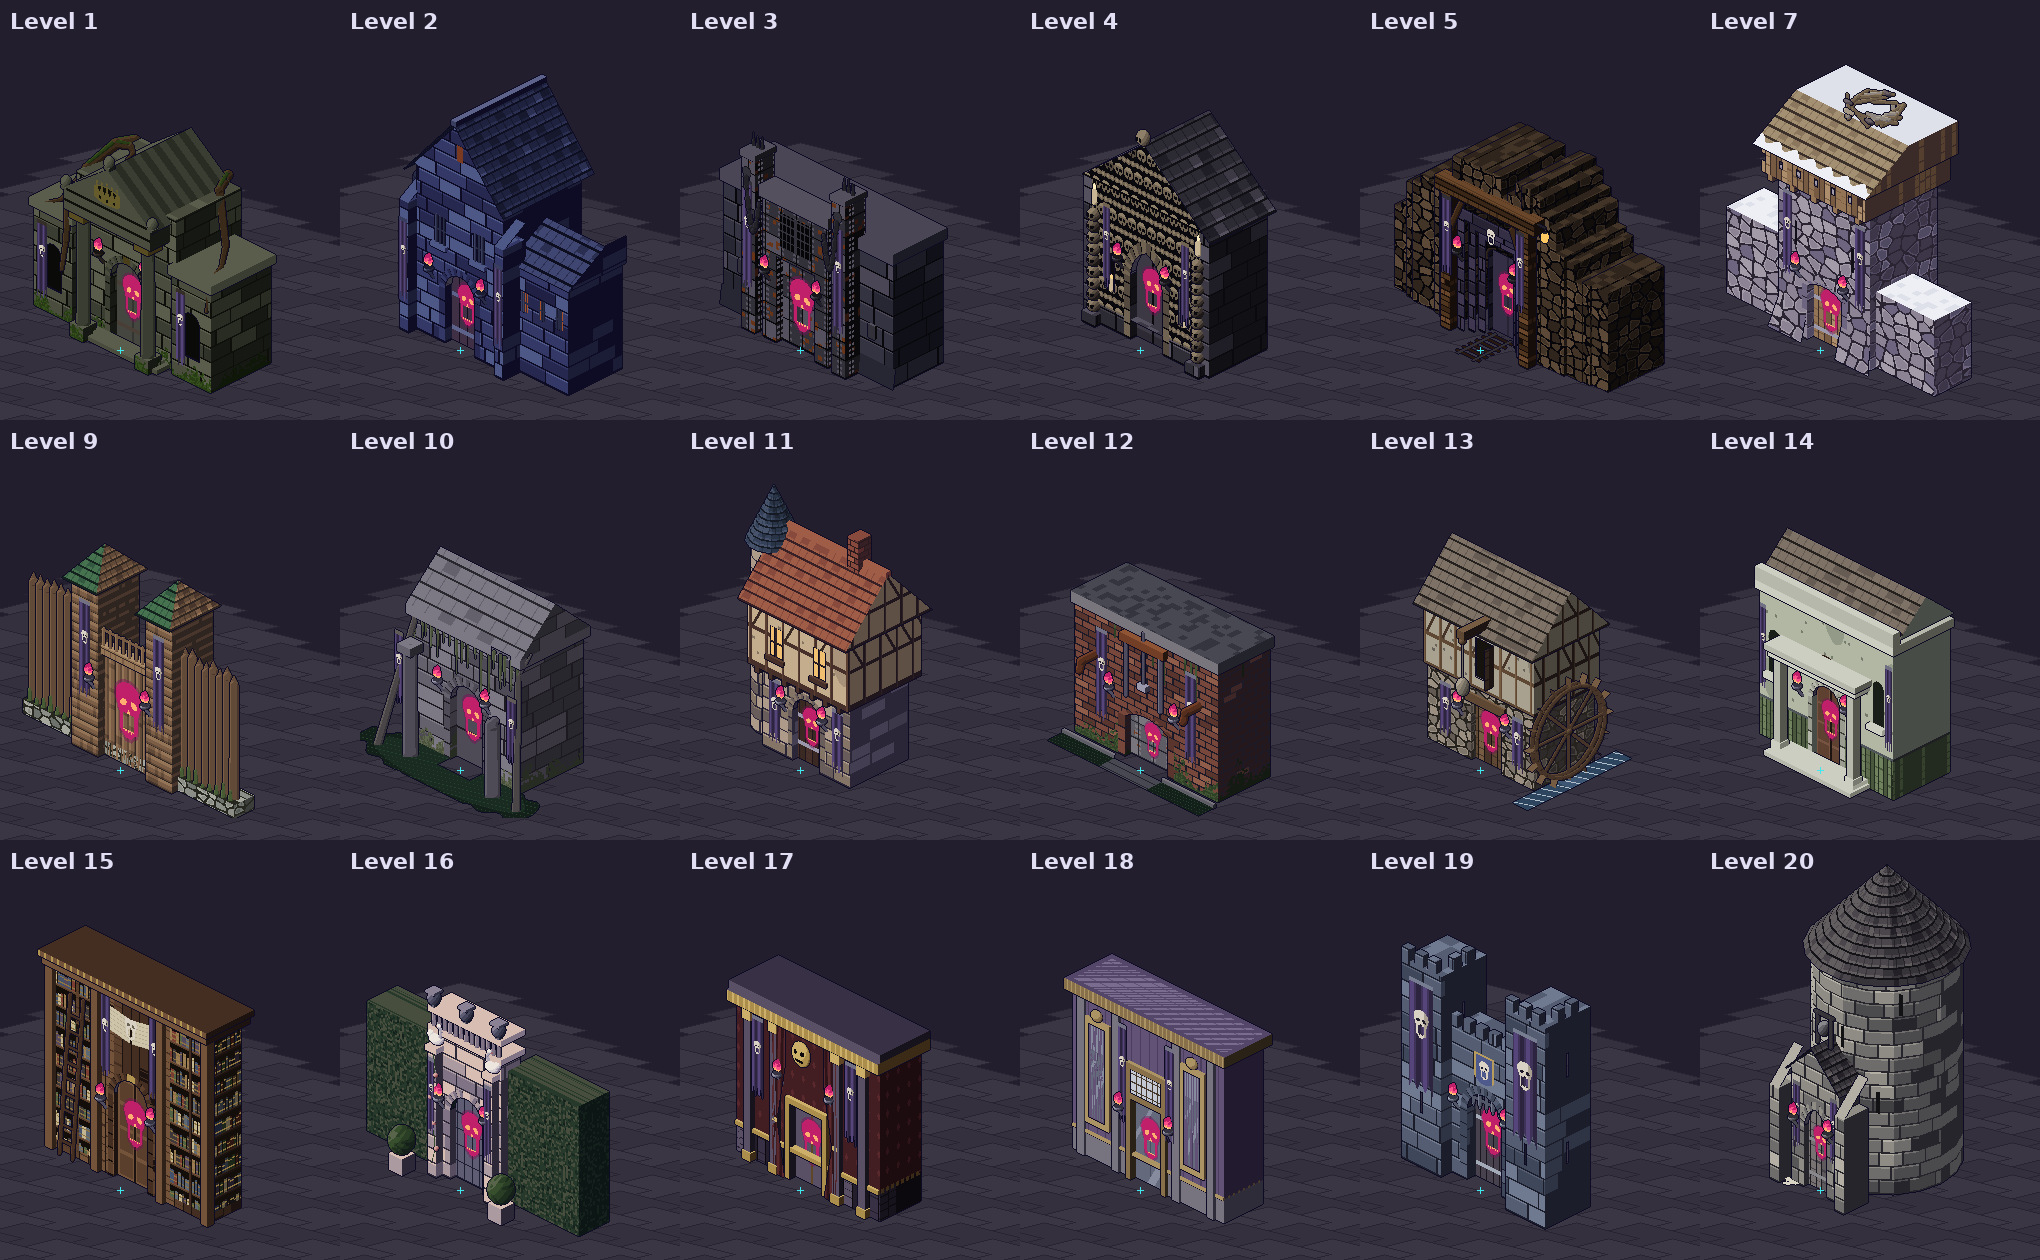
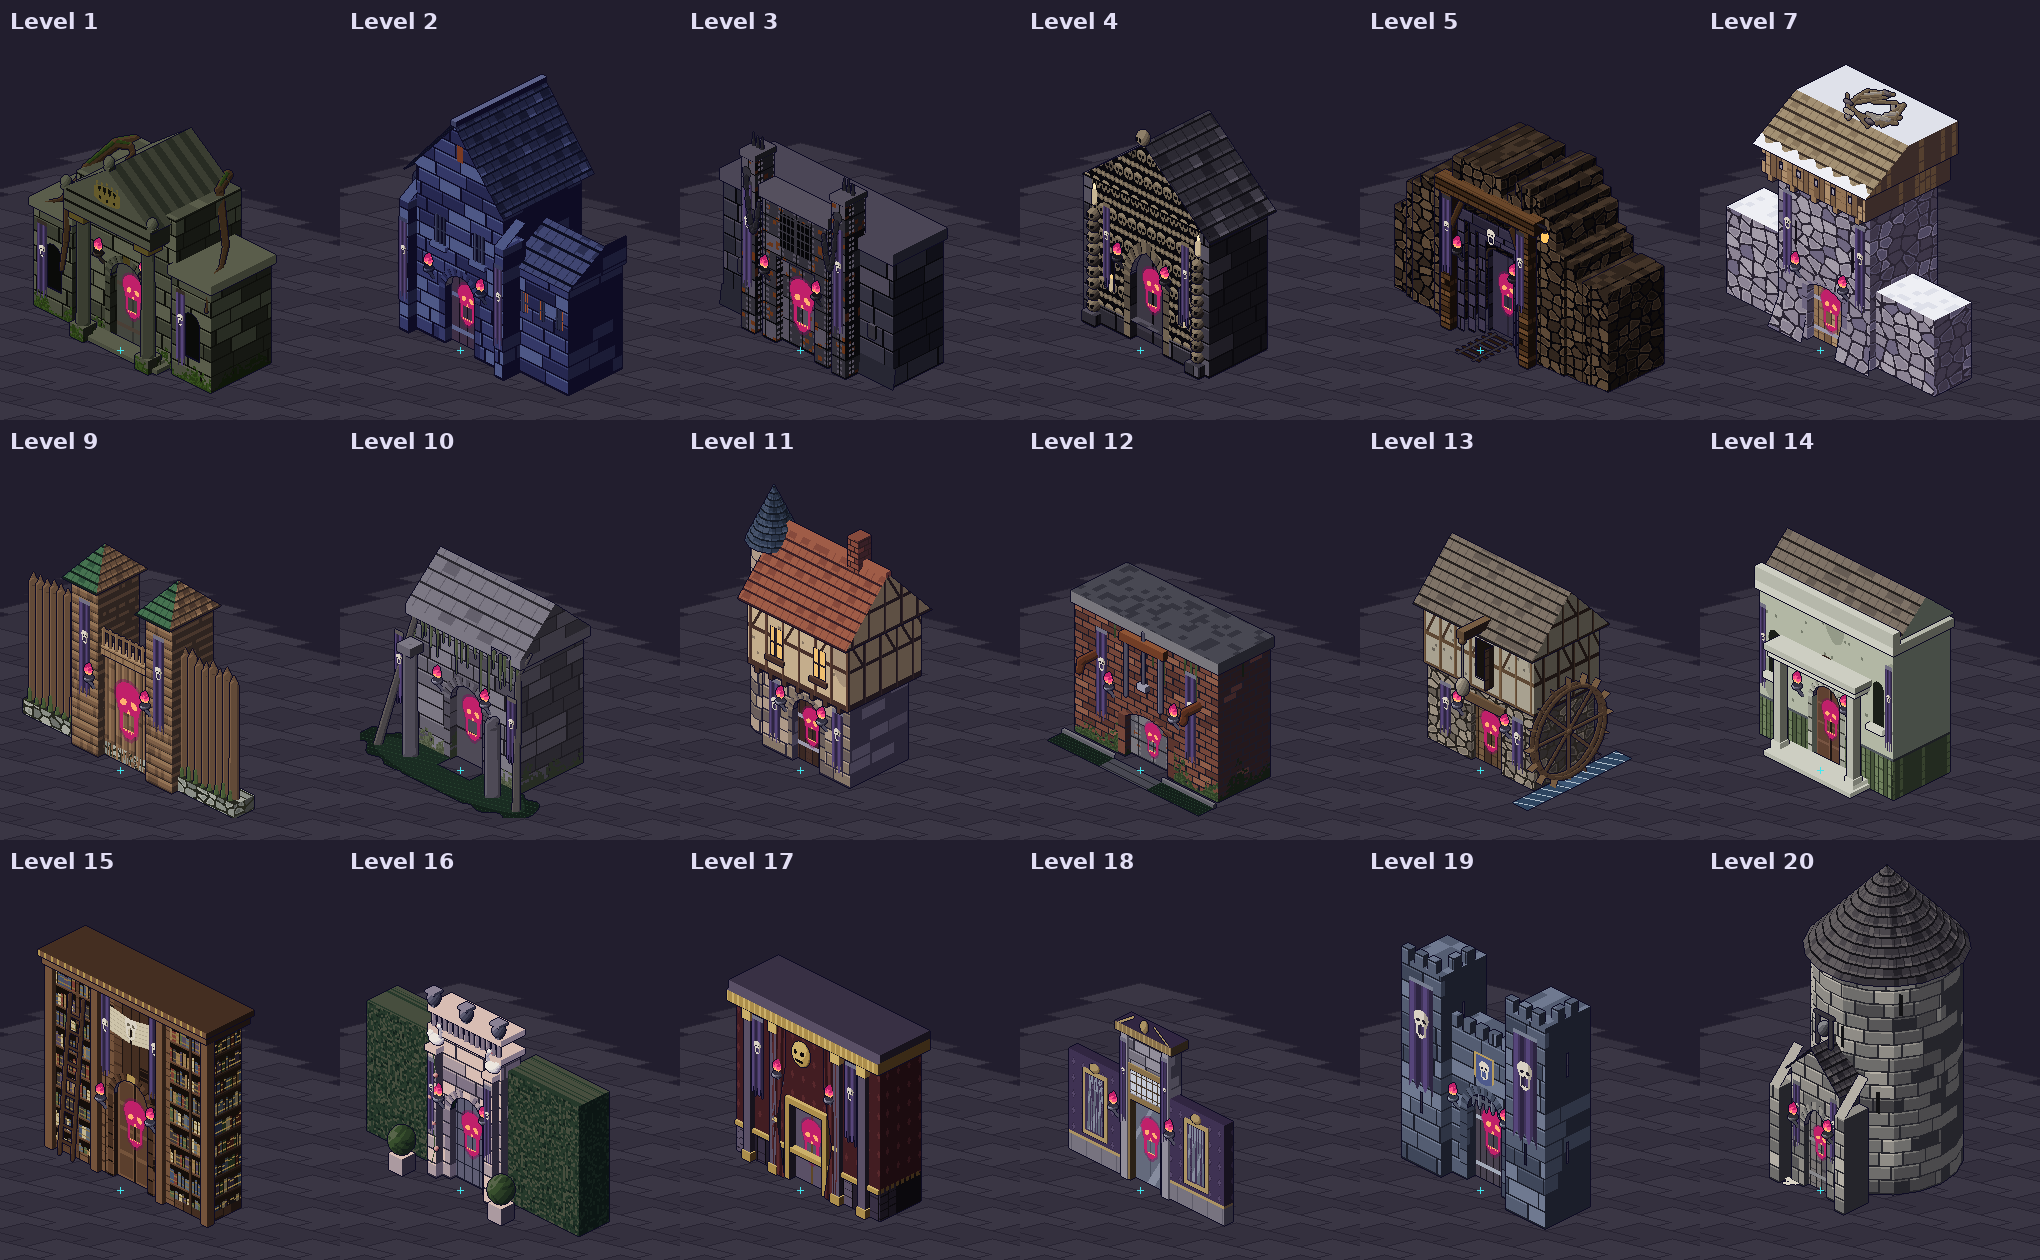
Level 18's stronghold front built as a run of the gallery's own wall, at his word
His word on the first pictures, 25 Nov 2026: “I like them except level 18 cause that is just in the
middle of the flooor”. The mirror door is now the gallery's wall either side at its own height (damask
over grey stone, a mirror on each) with the door's bay rising between, shallow, its top the wall's
dark cap; pictured against the gallery's back wall (the scenario's WALL and PICK).

Claude-Session: https://claude.ai/code/session_01JYSqoWBVKqU7pDHBLP4BaC

Changed region(s): [[0.525, 0.7429, 0.6176, 0.9595]]

diff --git a/src/art/hold_fronts.ts b/src/art/hold_fronts.ts
@@ -931,43 +931,57 @@ function stageFront(open: boolean, f: number): Sprite {
 // =================================================================================================
 // FLOOR 18, THE GLASS GALLERY: THE MIRROR HALL (art/floor18.ts)
 //
-// THE MIRROR DOOR taken by the cult: a wall of the gallery's violet silk between pilasters of grey stone, a great mirror in a gilt
-// frame either side, a glazed fanlight over the door, the door itself of mirror-glass in a gilt frame (the cult's mark burning in
-// it), a gilt cornice; the cult's banners, its pink fire.
-
+// THE MIRROR DOOR taken by the cult, BUILT AS A RUN OF THE GALLERY'S OWN WALL (his word on its first try, 25 Nov 2026, of the
+// pictures in the game: “I like them except level 18 cause that is just in the middle of the flooor”; read as, and told him so: it
+// stood out on the floor like a cabinet, where it should be part of the gallery's wall): the gallery's wall either side at the
+// gallery's own height, its violet damask over a skirting of grey stone and a gilt rail, a great mirror in gilt on each; between
+// them the door's bay rising higher, grey stone pilasters, a glazed fanlight, the door itself of mirror-glass in a gilt frame (the
+// cult's mark burning in it), a gilt cornice with a broken pediment; shallow, its top the wall's dark cap; the cult's banners on
+// the bay, its pink fire.
 
 function mirrorFront(open: boolean, f: number): Sprite {
   const F = new Front();
-  const silk: Paint = (w, n) => lit(n, GALLERY.SILK, fr(along(w, n) / 8) < 0.12 ? -1 : 0);
-  const stone = plain(GALLERY.CSTONE, 0, 0.05);
+  const damask: Paint = (w, n) => {
+    const a = along(w, n);
+    const u = fr(a / 9) - 0.5;
+    const v = fr(w[2] / 12) - 0.5;
+    const d = Math.abs(u) * 1.3 + Math.abs(v);
+    return lit(n, GALLERY.VIOLET, d < 0.2 ? 1 : d < 0.27 ? -1 : 0);
+  };
+  const wallOf: Paint = (w, n) => (w[2] < 12 ? lit(n, GALLERY.CSTONE, fr(along(w, n) / 14) < 0.07 ? -1 : 0) : w[2] < 14 ? lit(n, GALLERY.GILT, 1) : damask(w, n));
+  const cap: Paint = (_w, n) => lit(n, GALLERY.VIOLET, -2);
+  const stone = ashlar(GALLERY.CSTONE, GALLERY.CSTONE[0], 1801, 8, 14);
+  // THE GALLERY'S WALL either side, at its own height, its cap dark; a great mirror in gilt on each
+  for (const [x0, x1] of [[-72, -22], [22, 72]] as const) {
+    F.box(x0, -14, x1, -6, 0, 74, { front: wallOf, side: wallOf, top: cap });
+    const x = (x0 + x1) / 2;
+    F.box(x - 11, -7, x + 11, -5, 18, 66, plain(GALLERY.GILT, 1), (w, n) => n[1] > 0.5 && Math.abs(w[0] - x) < 8.5 && w[2] > 21 && w[2] < 63);
+    F.face([[x - 8.5, -6, 21], [x + 8.5, -6, 21], [x + 8.5, -6, 63], [x - 8.5, -6, 63]], (w, n) => {
+      const d = (w[0] - x) * 0.7 - (w[2] - 42) * 0.3;
+      return lit(n, GALLERY.MIRROR, Math.abs(d - 3) < 1.6 || Math.abs(d + 5) < 0.8 ? 2 : w[2] > 52 ? 1 : 0);
+    });
+    F.egg([x, -5, 69], [4.4, 1.6, 3.4], (n) => lit(n as V3, GALLERY.GILT, 1));
+  }
+  // THE DOOR'S BAY, higher, of grey stone; its pilasters; the gilt frame, the fanlight, the door of mirror-glass
   const DOOR: Arch = { half: 14, spring: 60, shape: 'flat' };
-  F.box(-70, -44, 70, -8, 0, 126, (w, n) => (w[2] < 18 ? stone(w, n) : silk(w, n)), (w, n) => n[1] > 0.5 && (inArch(DOOR, w[0], w[2]) || (Math.abs(w[0]) < 14 && w[2] > 64 && w[2] < 82)));
-  F.box(-70, -44, 70, -7, 17, 19, plain(GALLERY.GILT, 1));
-  // the door's frame of gilt, the door of mirror-glass
-  F.box(-18, -9, 18, -5, 0, 86, plain(GALLERY.GILT, 0), (w, n) => n[1] > 0.5 && (inArch(DOOR, w[0], w[2]) || (Math.abs(w[0]) < 14 && w[2] > 64 && w[2] < 82)));
+  const fan = (w: V3): boolean => Math.abs(w[0]) < 14 && w[2] > 64 && w[2] < 82;
+  F.box(-22, -16, 22, -6, 0, 112, { front: stone, side: stone, top: cap }, (w, n) => n[1] > 0.5 && (inArch(DOOR, w[0], w[2]) || fan(w)));
+  for (const x of [-22, 16]) F.box(x, -8, x + 6, -4, 0, 108, plain(GALLERY.CSTONE, 1, 0.05));
+  F.box(-18, -7, 18, -5, 0, 86, plain(GALLERY.GILT, 0), (w, n) => n[1] > 0.5 && (inArch(DOOR, w[0], w[2]) || fan(w)));
   door(F, DOOR, -5, 5, open, f, { slab: (x, z, n) => {
     const sheen = (x * 0.6 - z * 0.35) % 18;
     return lit(n, GALLERY.MIRROR, Math.abs(sheen) < 2 ? 2 : Math.abs(x) < 0.6 ? -1 : 0);
   } }, plain(GALLERY.GILT, -1));
-  // the fanlight over it, glazed, the gallery's dark beyond
   F.face([[-14, -6, 64], [14, -6, 64], [14, -6, 82], [-14, -6, 82]], panes(GALLERY.PANE, GALLERY.GILT[1], 5, 6));
-  // THE PILASTERS and the two great mirrors in their frames
-  for (const x of [-62, -30, 26, 58]) F.box(x - 2, -10, x + 4, -6, 0, 118, stone);
-  for (const x of [-46, 42]) {
-    F.box(x - 11, -10, x + 11, -6, 26, 104, plain(GALLERY.GILT, 1), (w, n) => n[1] > 0.5 && Math.abs(w[0] - x) < 8 && w[2] > 30 && w[2] < 100);
-    F.face([[x - 8, -8, 30], [x + 8, -8, 30], [x + 8, -8, 100], [x - 8, -8, 100]], (w, n) => {
-      const d = (w[0] - x) * 0.7 - (w[2] - 65) * 0.3;
-      return lit(n, GALLERY.MIRROR, Math.abs(d - 3) < 1.6 || Math.abs(d + 5) < 0.8 ? 2 : (w[2] > 80 ? 1 : 0));
-    });
-    F.egg([x, -6, 108], [5, 2, 4], (n) => lit(n as V3, GALLERY.GILT, 1));
-  }
-  // THE CORNICE, gilt
-  F.box(-74, -48, 74, -4, 118, 126, { front: (w, n) => (fr(w[0] / 4) < 0.3 ? lit(n, GALLERY.GILT, 1) : lit(n, GALLERY.GILT, 0)), side: plain(GALLERY.GILT, -1), top: plain(GALLERY.VIOLET, 0) });
-  // the cult's banners, its pink fire
-  banner(F, -26, -18, 40, 112, -6, IRON_Q);
-  banner(F, 18, 26, 40, 112, -6, IRON_Q);
-  sconce(F, -23, -8, 52, f, IRON_Q);
-  sconce(F, 23, -8, 52, f, IRON_Q);
+  // its cornice of gilt, and a broken pediment over it
+  F.box(-26, -18, 26, -3, 108, 114, { front: (w, n) => (fr(w[0] / 4) < 0.3 ? lit(n, GALLERY.GILT, 1) : lit(n, GALLERY.GILT, 0)), side: plain(GALLERY.GILT, -1), top: cap });
+  for (const s of [-1, 1]) F.face([[s * 24, -3.5, 114], [s * 9, -3.5, 114], [s * 9, -3.5, 124], [s * 9, -3.5, 124]], (w, n) => (Math.abs(w[2] - 114 - (24 - Math.abs(w[0])) * (10 / 15)) < 1.6 ? lit(n, GALLERY.GILT, 1) : null));
+  F.egg([0, -4, 119], [3.4, 1.6, 4.6], (n) => lit(n as V3, GALLERY.GILT, 1));
+  // the cult's banners on the bay's pilasters, its pink fire
+  banner(F, -21.5, -16.5, 40, 104, -4, IRON_Q);
+  banner(F, 16.5, 21.5, 40, 104, -4, IRON_Q);
+  sconce(F, -26, -6, 52, f, IRON_Q);
+  sconce(F, 26, -6, 52, f, IRON_Q);
   return F.finish();
 }
 

diff --git a/docs/mockups/hold_fronts/README.md b/docs/mockups/hold_fronts/README.md
@@ -43,7 +43,7 @@ cult's banners and its pink fire in sconces, in the floor's own colours otherwis
 | 15 The Great Library | the library's great door: shelves of books to the cornice, walnut pilasters, gilt, tall walnut doors, an open book carved over them with the cult's mark across its pages, a ladder |
 | 16 The Swan Gardens | the garden folly: an arch of pale limestone in a clipped yew hedge, swans carved on its piers, a balustrade with lead urns, clipped box, roses |
 | 17 The Masque | the stage door: ebony and gilt over the masque's dark wine damask, velvet curtains drawn back and tied, a gilt mask over the door |
-| 18 The Glass Gallery | the mirror door: violet silk between grey stone pilasters, two great mirrors in gilt, a glazed fanlight, the door itself of mirror-glass |
+| 18 The Glass Gallery | the mirror door, built as a run of the gallery's own wall (his word on its first try, below): the wall either side at the gallery's height, violet damask over grey stone and a gilt rail, a great mirror in gilt on each; the door's bay higher, grey stone pilasters, a glazed fanlight, the door of mirror-glass, a gilt cornice with a broken pediment |
 | 19 The Keep | the inner gatehouse: two square towers of the keep's cold stone with battlements, the portcullis drawn up, the king's arms in gold with the cult's skull painted across them |
 | 20 The Quiet Tower | the tower's bell-door: a round tower of the tower's grey stone under a cone of oak shingles, a porch with a pointed door, buttresses, a little bell in an arch of grey oak, loose pages |
 
@@ -90,4 +90,10 @@ the cult's fire on it either way; 3. off, the gate as it was; on, a floor's own,
 their front and courts and the cult's yard; off, as they were. `tsc --noEmit -p tsconfig.json`: clean but for
 `tests/relief.test.ts` line 378, which is on `main` as it is.
 
-WAITING FOR HIS WORD.
+SHOWN HIM, 25 Nov 2026, by 10:55: the two sheets in the game; asked by pop-up whether they match their levels well enough to switch
+on. HIS WORD: **“I like them except level 18 cause that is just in the middle of the flooor”**. Read as, and told him so: on 18
+the mirror door stood out on the open floor like a cabinet, where it should be part of the gallery's wall. So 18 is rebuilt as a
+run of the gallery's own wall (above), and pictured against the gallery's back wall (`WALL=4`, a place with four tiles of wall
+behind it either way); the rest as they were.
+
+WAITING FOR HIS WORD ON 18.
